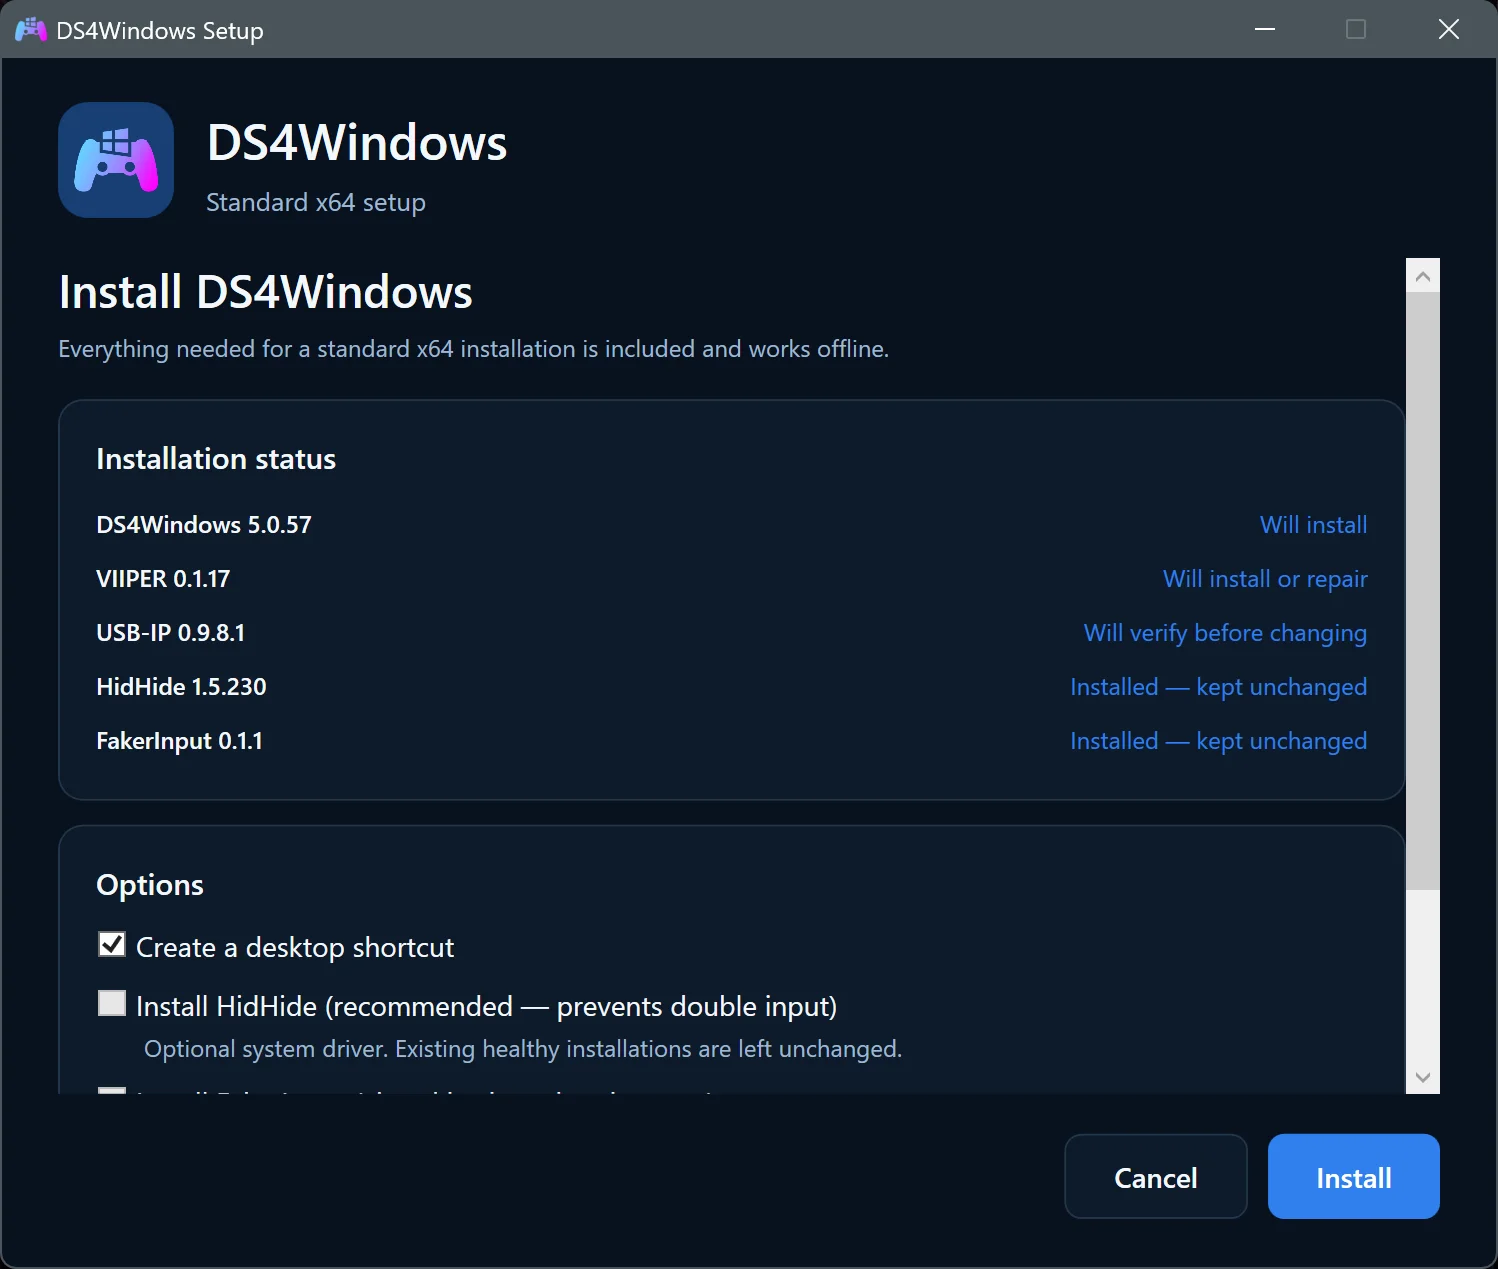
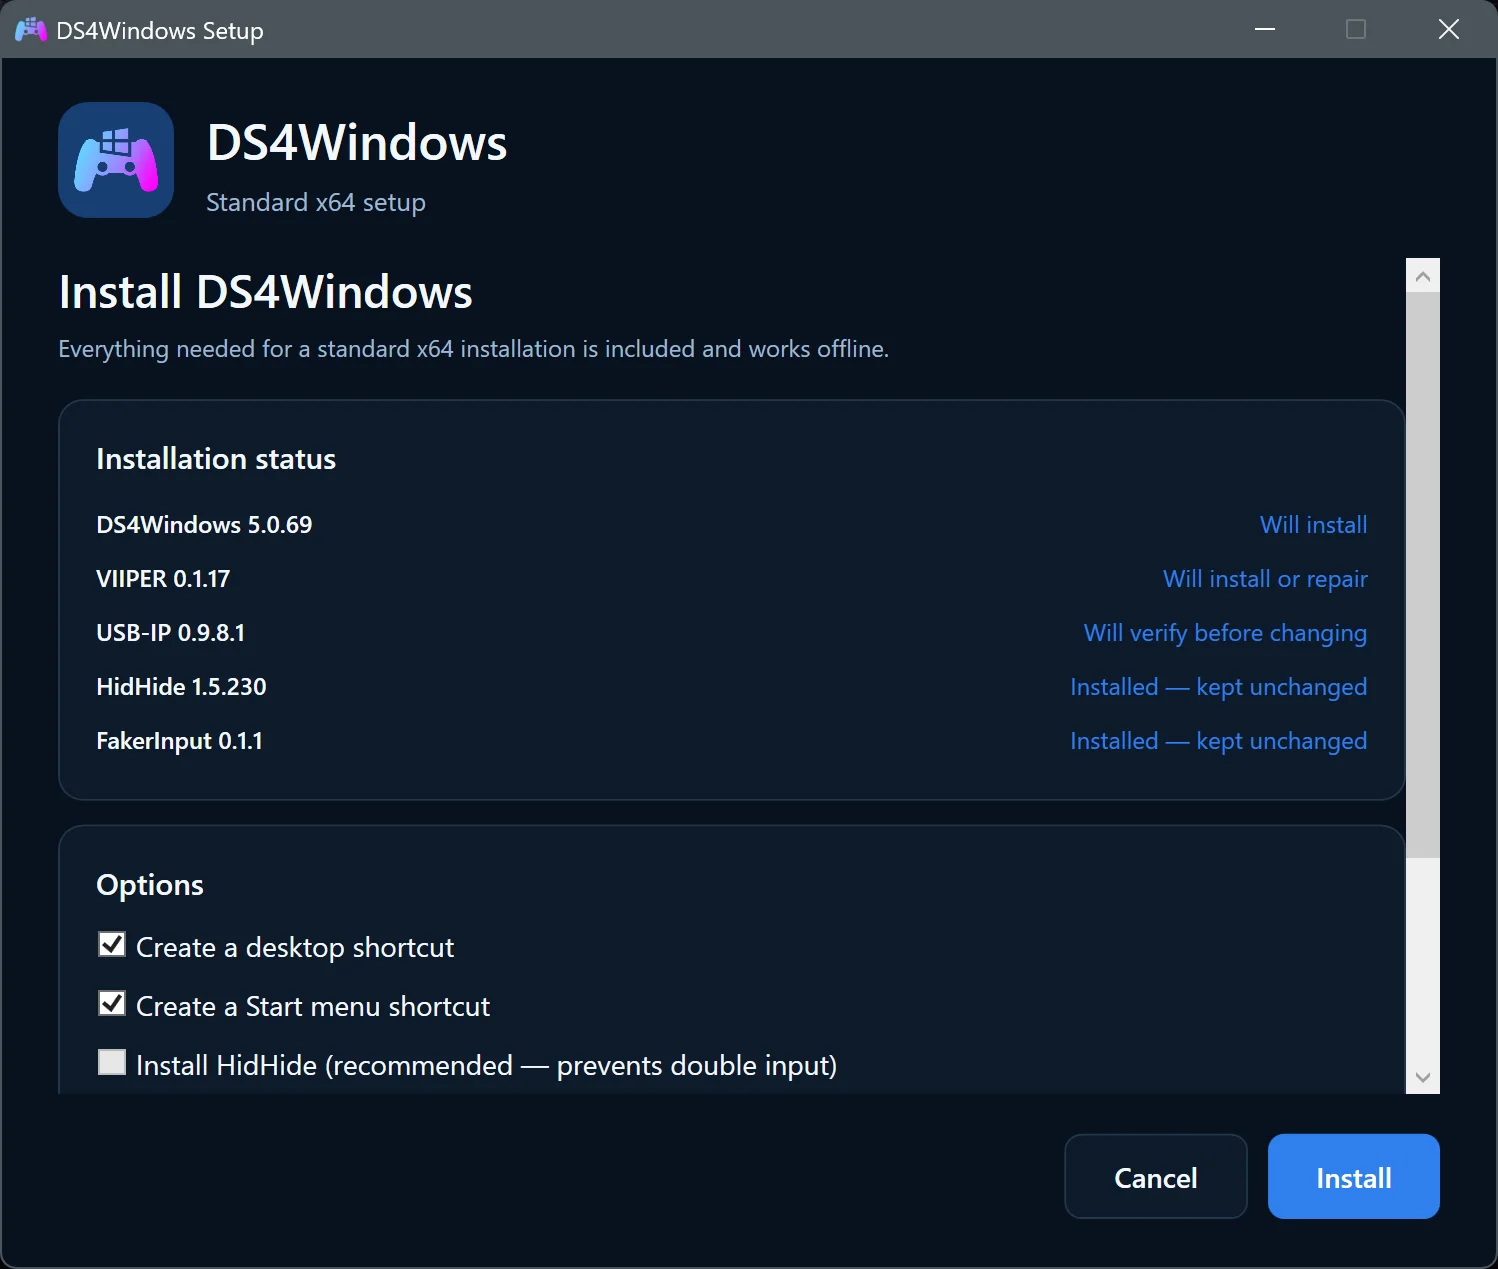
Prepare 5.0.70 recovery release and integrate latest screenshots

Changed region(s): [[0.0614, 0.7683, 0.5834, 0.8605], [0.9212, 0.6761, 0.9826, 0.7069], [0.1842, 0.3995, 0.215, 0.4303]]

diff --git a/docs/user-guide.md b/docs/user-guide.md
@@ -469,10 +469,22 @@ Use [Swipe profiles](swipe-profiles.md) to limit profile cycling. For double
 input, configure HidHide and check overlapping Steam Input mappings.
 Run at Startup and Start Minimized are separate choices.
 
+### Notification-area menu
+
+Right-click the DS4Windows icon in the Windows notification area to select a
+controller's profile, open or minimise the window, or open the program folder.
+**Stop** stops controller processing and releases DS4Windows-managed hiding rules.
+**Exit** quits the app; closing the main window may only minimise it, depending
+on your window preferences.
+
+![Notification-area menu with profile selection, Stop and Exit](images/site/systray.webp)
+
 ### Manage controller components
 
 Open **Settings > Components** or use **Manage components…** from the
 virtual output status in **Settings > Controllers**.
+
+![Component management showing backend status, optional drivers and recovery](images/site/settings-components.webp)
 
 - **VIIPER** shows the selected backend and its running status. Use
   **Install / Repair VIIPER** to fix a backend that needs attention.
@@ -484,7 +496,10 @@ virtual output status in **Settings > Controllers**.
   verify the supported driver, then reopen DS4Windows to start the backend.
 - **HidHide** shows both the DS4Windows hiding preference and the system-wide
   hiding state. Use **Hiding settings** for DS4Windows or **Open HidHide…**
-  to manage the driver's settings in its configuration client.
+  to manage the driver's settings in its configuration client. After **Stop**,
+  **Recover hidden controllers…** offers selective recovery of older hiding rules.
+  Nothing is selected automatically; configuration is backed up before changes.
+  See [hidden-controller recovery](troubleshooting.md#controller-stays-hidden-after-stop-or-exit).
 - **FakerInput** shows the installed driver and the keyboard and mouse
   handler in use. Choose **Use Windows input** to use the Windows handler
   after the next Stop/Start. Return to automatic selection to let DS4Windows
@@ -494,6 +509,8 @@ Install missing optional drivers here. To remove an optional shared driver,
 use **Manage shared drivers…** to open Windows Installed apps.
 
 ### Battery alerts
+
+![Controller settings with battery alert and connection options](images/site/settings-controllers.webp)
 
 Open **Settings > Controllers > Battery alerts**. Automatic low-battery and
 fully-charged alerts are off by default. Enable the alerts you want, choose a

diff --git a/docs/screenshots.md b/docs/screenshots.md
@@ -2,8 +2,8 @@
 
 [Documentation index](README.md) · [Getting started](getting-started.md)
 
-These current interface captures were supplied by Pav-Osmolski on 28 October 2026,
-covering the updated app, Profile Editor and supporting windows. Selected options
+These interface captures were supplied by Pav-Osmolski during October and November
+2026, including the latest Settings, component-management and installer screens. Selected options
 illustrate the interface; they are not recommendations for every controller.
 
 ## Overview
@@ -145,6 +145,30 @@ Inspect virtual output slots and manage reservations. [Output Slots guide](user-
 Find startup, appearance, controller and integration preferences. [Settings guide](user-guide.md#settings).
 
 ![Settings General page with startup and window preferences](images/site/settings.webp)
+
+### Controller settings
+
+Manage battery alerts, physical-controller hiding and connection preferences. [Controller settings guide](user-guide.md#settings).
+
+![Settings Controllers tab showing battery alerts and physical-controller preferences](images/site/settings-controllers.webp)
+
+### Components
+
+Inspect VIIPER, USB/IP, HidHide and FakerInput, or recover a controller left hidden by older rules. [Component management guide](user-guide.md#manage-controller-components).
+
+![Settings Components tab with backend status, optional drivers and hidden-controller recovery](images/site/settings-components.webp)
+
+## Notification-area menu
+
+Right-click the DS4Windows tray icon to switch profiles, stop the controller service or exit the app. [Tray menu guide](user-guide.md#notification-area-menu).
+
+![DS4Windows notification-area menu with controller profile selection and Exit](images/site/systray.webp)
+
+## Installation
+
+Setup displays the bundled component versions and offers desktop and Start-menu shortcuts. [Installation guide](getting-started.md).
+
+![DS4Windows Setup showing component status and installation options](images/site/installer.webp)
 
 ## Log and diagnostics
 

diff --git a/CHANGELOG.md b/CHANGELOG.md
@@ -5,11 +5,15 @@ archives, checksums, and build records are available on [Releases](https://githu
 
 ## Unreleased
 
-- Recover confirmed DS4Windows-owned persistent HidHide rules after interrupted sessions. Preserve rules used by another participating copy, and offer selective recovery for older untracked rules in Settings > Components.
-- Explain remaining externally managed hiding rules after Stop, with verified cleanup and configuration backups for recovery. Thanks [u/JoeRLL](https://www.reddit.com/user/JoeRLL/) for reporting controllers remaining hidden outside the app.
-- Refresh documentation screenshots captured on 10 November 2026.
+There are currently no unreleased changes.
 
 ## Released
+
+### [5.0.70](https://github.com/Pav-Osmolski/DS4Windows/releases/tag/5.0.70) - 2026-11-11
+
+- Fix a critical HidHide cleanup gap that could leave physical controllers hidden outside DS4Windows after an interrupted session. Persist and verify ownership, recover confirmed abandoned rules on Start, and protect rules still used by another participating copy. Thanks [u/JoeRLL](https://www.reddit.com/user/JoeRLL/) for the report that helped identify this issue ([PR #125](https://github.com/Pav-Osmolski/DS4Windows/pull/125)).
+- Add **Settings > Components > Recover hidden controllers…** for explicitly restoring controllers affected by older or untracked hiding rules. Back up and recheck configuration before changes; preserve unrelated rules and application permissions. Explain remaining externally managed rules after Stop.
+- Refresh documentation screenshots and add illustrated Controllers settings, Components and notification-area menu guidance.
 
 ### [5.0.69](https://github.com/Pav-Osmolski/DS4Windows/releases/tag/5.0.69) - 2026-11-10
 
